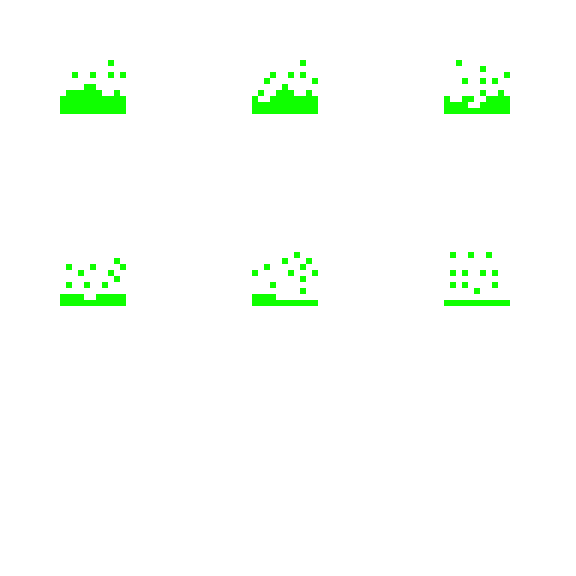
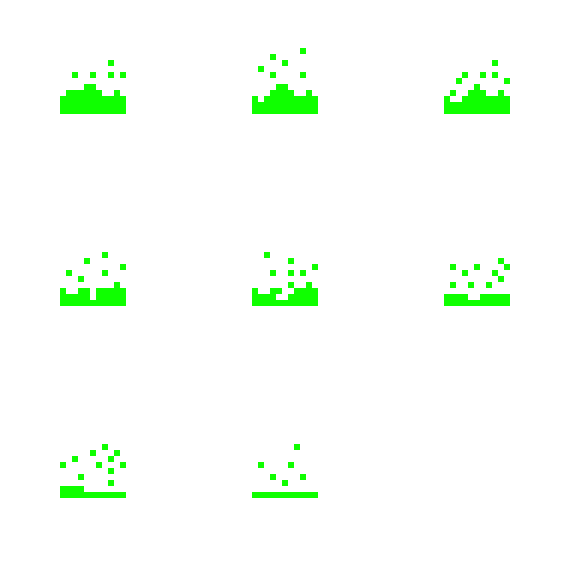
Add extra ship death frames

diff --git a/ship.py b/ship.py
@@ -8,7 +8,7 @@ class Ship(pygame.sprite.Sprite):
         self.screen = screen
         self.ai_settings = ai_settings
         # Load ship image and set rect attributes
-        self.ship_image = pygame.image.load('images/space-invaders-ship.png')
+        self.ship_image = pygame.image.load('images/ship.png')
         self.image = self.ship_image
         self.death_images = [
             pygame.image.load('images/ship_death/ship_death1.png'),
@@ -16,7 +16,9 @@ class Ship(pygame.sprite.Sprite):
             pygame.image.load('images/ship_death/ship_death3.png'),
             pygame.image.load('images/ship_death/ship_death4.png'),
             pygame.image.load('images/ship_death/ship_death5.png'),
-            pygame.image.load('images/ship_death/ship_death6.png')
+            pygame.image.load('images/ship_death/ship_death6.png'),
+            pygame.image.load('images/ship_death/ship_death7.png'),
+            pygame.image.load('images/ship_death/ship_death8.png')
         ]
         self.death_index = None
         self.last_frame = None
